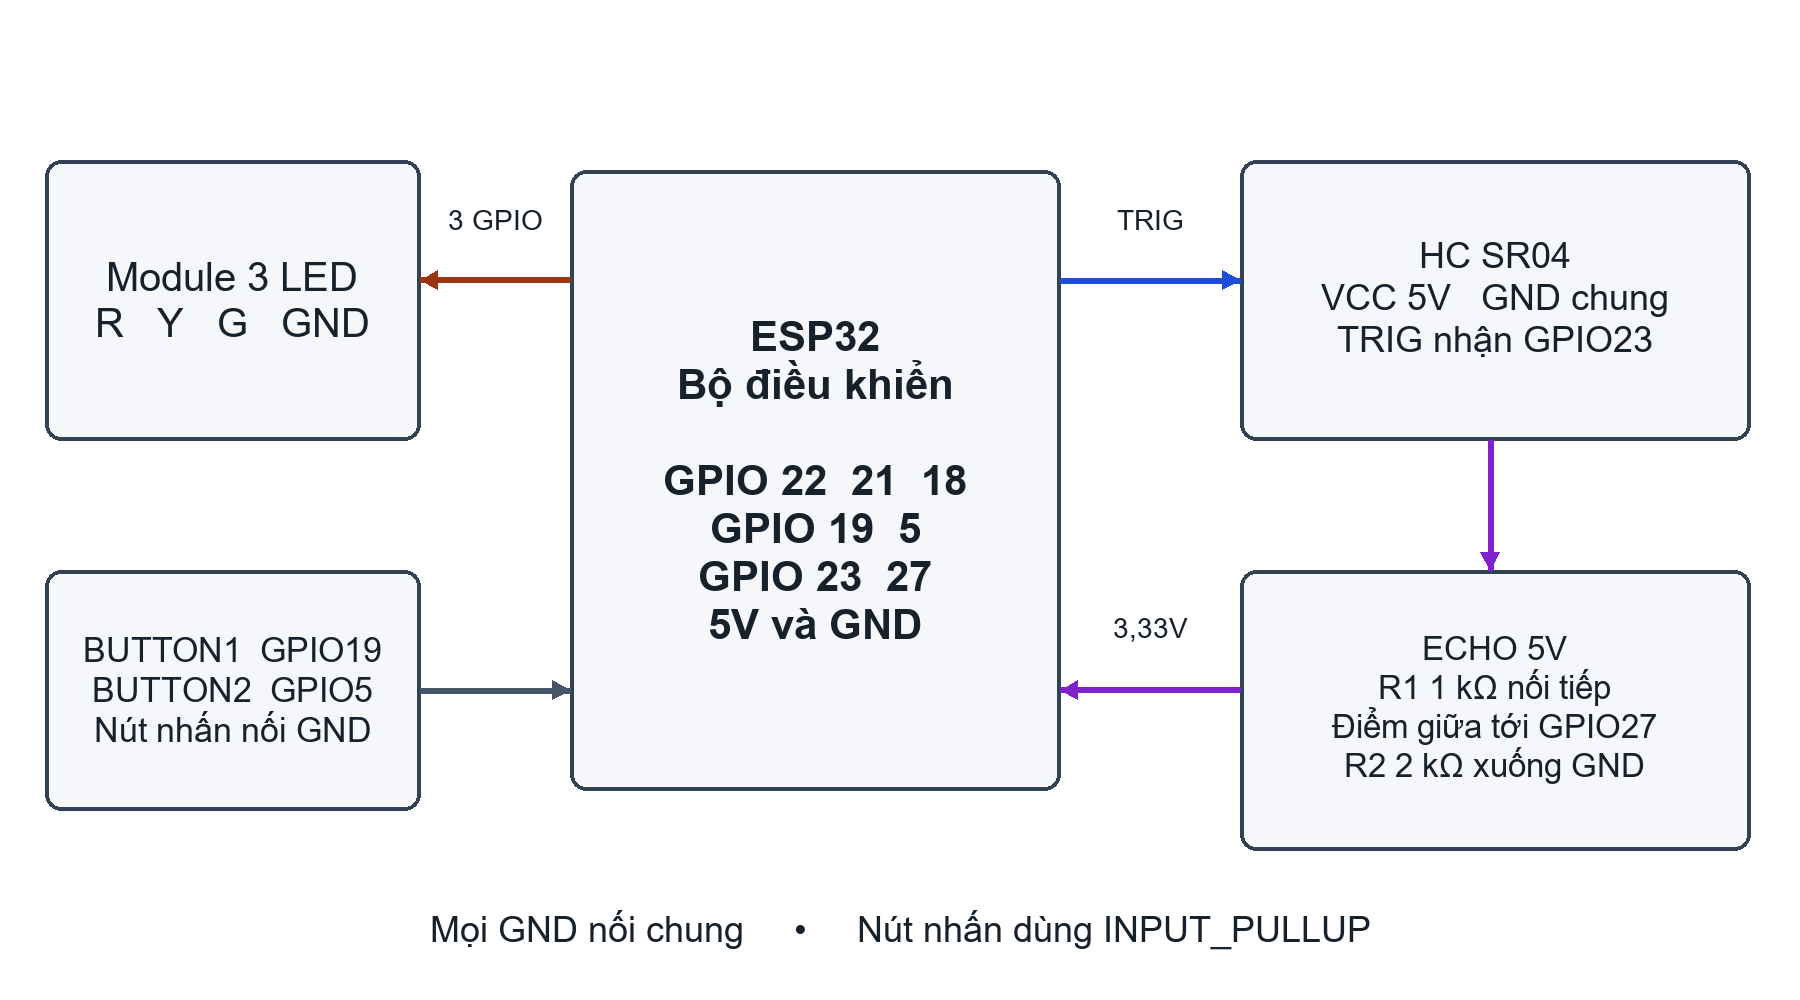
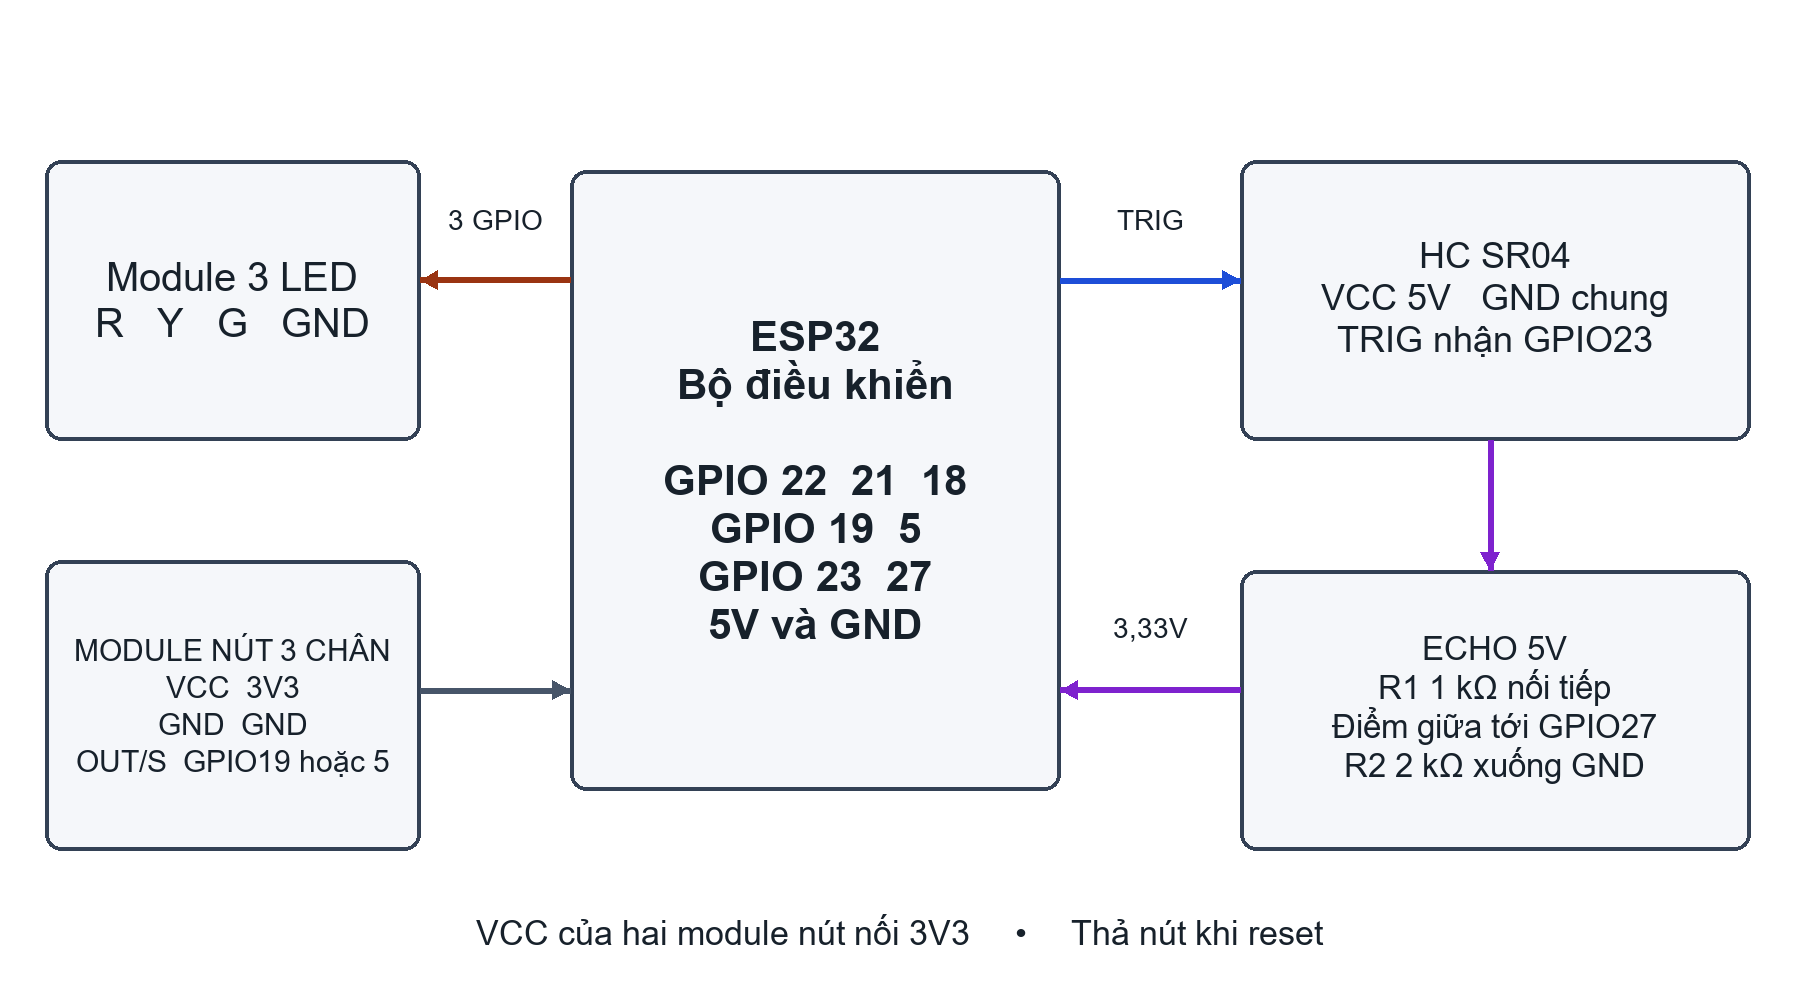
Support 3-pin button modules and staged sensor configuration

diff --git a/tests/controller_tests.cpp b/tests/controller_tests.cpp
@@ -2,10 +2,34 @@
 #include <stdint.h>
 #include <stdio.h>
 #include "../firmware/IoT_ESP32/Controller.h"
+#include "../firmware/IoT_ESP32/ButtonDebouncer.h"
 
 static void expect(const LedController& c, bool r, bool y, bool g) {
   const LedOutput value = c.output();
   assert(value.red == r && value.yellow == y && value.green == g);
+}
+
+static void testButton(bool idleLevel) {
+  ButtonDebouncer button;
+  button.begin(idleLevel, 0);
+  assert(button.idleLevel() == idleLevel);
+  assert(!button.update(idleLevel, 100));
+  assert(!button.update(!idleLevel, 110));
+  assert(!button.update(idleLevel, 115));  // contact bounce
+  assert(!button.update(!idleLevel, 120));
+  assert(!button.update(!idleLevel, 149));
+  assert(button.update(!idleLevel, 150));  // one event after stable 30 ms
+  assert(!button.update(!idleLevel, 300)); // holding does not repeat
+  assert(!button.update(idleLevel, 310));
+  assert(!button.update(idleLevel, 340));  // release is not a press
+  assert(!button.update(!idleLevel, 350));
+  assert(button.update(!idleLevel, 380));  // a second press is detected
+
+  ButtonDebouncer rollover;
+  rollover.begin(idleLevel, UINT32_MAX - 100U);
+  assert(!rollover.update(!idleLevel, UINT32_MAX - 9U));
+  assert(!rollover.update(!idleLevel, 19U));
+  assert(rollover.update(!idleLevel, 20U));
 }
 
 int main() {
@@ -66,6 +90,8 @@ int main() {
   assert(late.state() == 0 && late.phaseMs() == 0);
   late.tick(3210);
   assert(late.state() == 3);
-  puts("PASS: sequence, timing, strict thresholds, priority, pause/resume, invalid echo, lock, rollover.");
+  testButton(true);   // released HIGH, pressed LOW
+  testButton(false);  // released LOW, pressed HIGH
+  puts("PASS: 10 groups: sequence, timing, thresholds, priority, pause/resume, invalid echo, lock, rollover/catch-up, active-LOW button, active-HIGH button.");
   return 0;
 }

diff --git a/firmware/IoT_ESP32/ButtonDebouncer.h b/firmware/IoT_ESP32/ButtonDebouncer.h
@@ -1,0 +1,36 @@
+#pragma once
+
+#include <stdint.h>
+
+// Calibrate with a released button. Supports active-LOW and active-HIGH modules.
+class ButtonDebouncer {
+ public:
+  static constexpr uint32_t DEBOUNCE_MS = 30;
+
+  void begin(bool releasedLevel, uint32_t now) {
+    idleLevel_ = releasedLevel;
+    previousRaw_ = releasedLevel;
+    stable_ = releasedLevel;
+    changedMs_ = now;
+  }
+
+  bool update(bool raw, uint32_t now) {
+    if (raw != previousRaw_) {
+      previousRaw_ = raw;
+      changedMs_ = now;
+    }
+    if (raw != stable_ && static_cast<uint32_t>(now - changedMs_) >= DEBOUNCE_MS) {
+      stable_ = raw;
+      return stable_ != idleLevel_;
+    }
+    return false;
+  }
+
+  bool idleLevel() const { return idleLevel_; }
+
+ private:
+  bool idleLevel_ = true;
+  bool previousRaw_ = true;
+  bool stable_ = true;
+  uint32_t changedMs_ = 0;
+};

diff --git a/firmware/IoT_ESP32/secrets.example.h b/firmware/IoT_ESP32/secrets.example.h
@@ -5,6 +5,9 @@
 #ifndef IOT_ENABLE_CLOUD
 #define IOT_ENABLE_CLOUD 0
 #endif
+#ifndef IOT_ENABLE_SENSOR
+#define IOT_ENABLE_SENSOR 1
+#endif
 #define BLYNK_TEMPLATE_ID "TMPL6JTpyMoNy"
 #define BLYNK_TEMPLATE_NAME "IoT ESP32 De 2"
 #define BLYNK_AUTH_TOKEN "REPLACE_WITH_DEVICE_AUTH_TOKEN"
